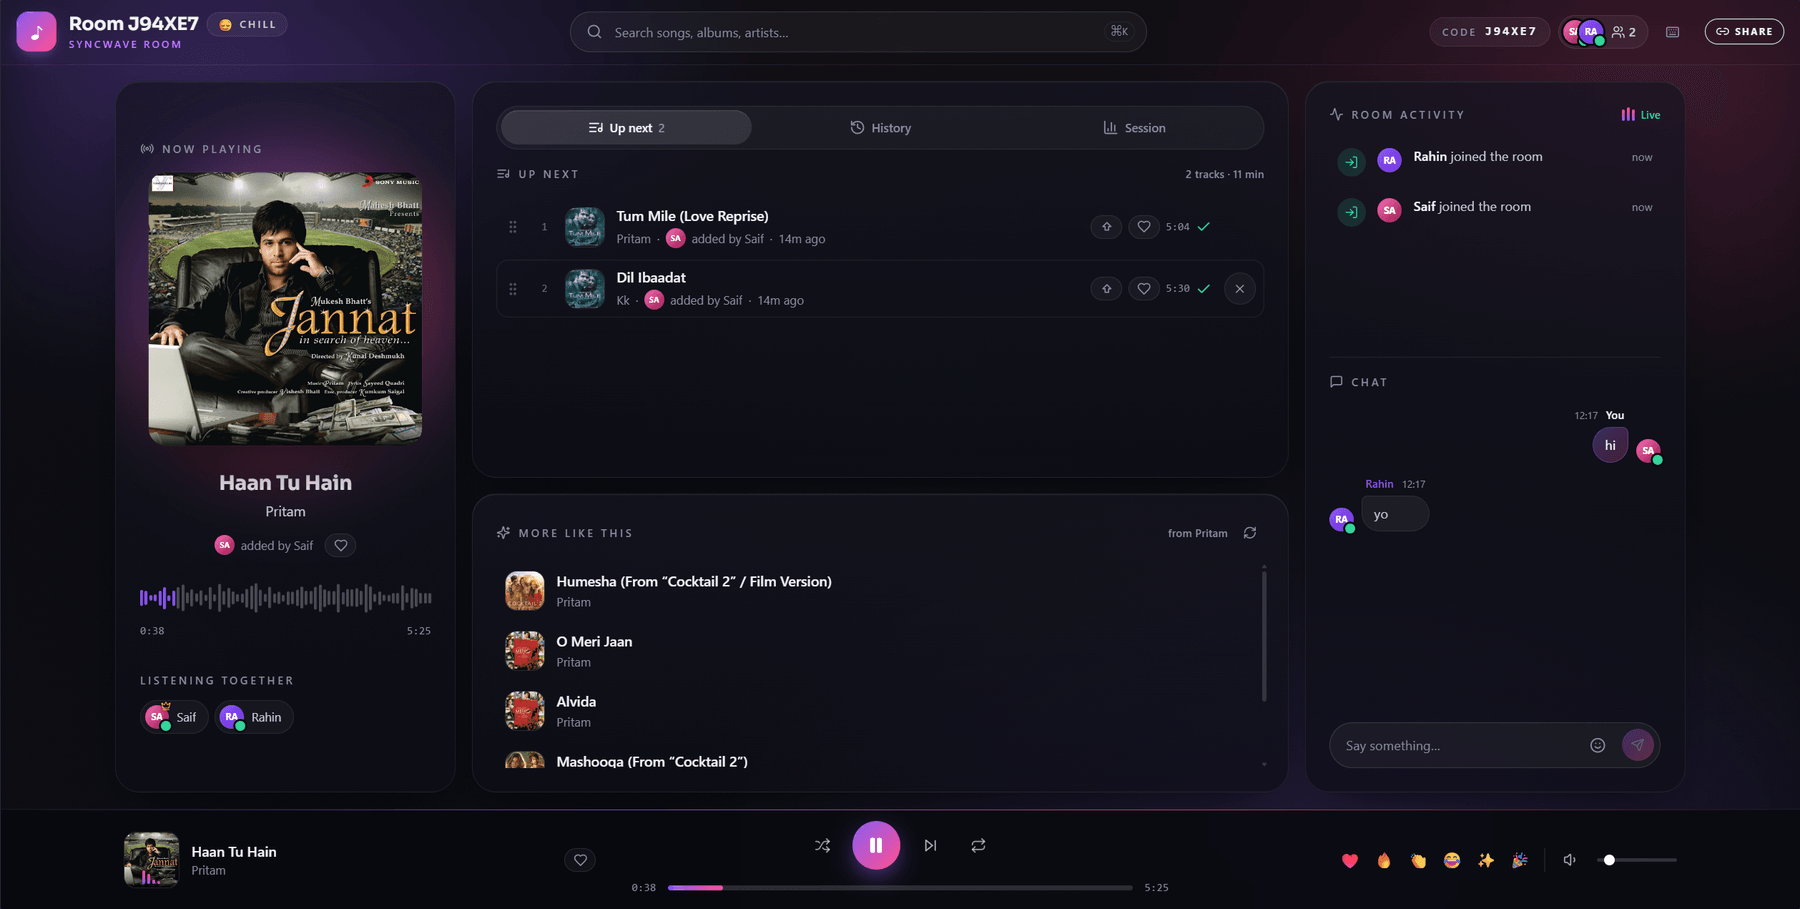
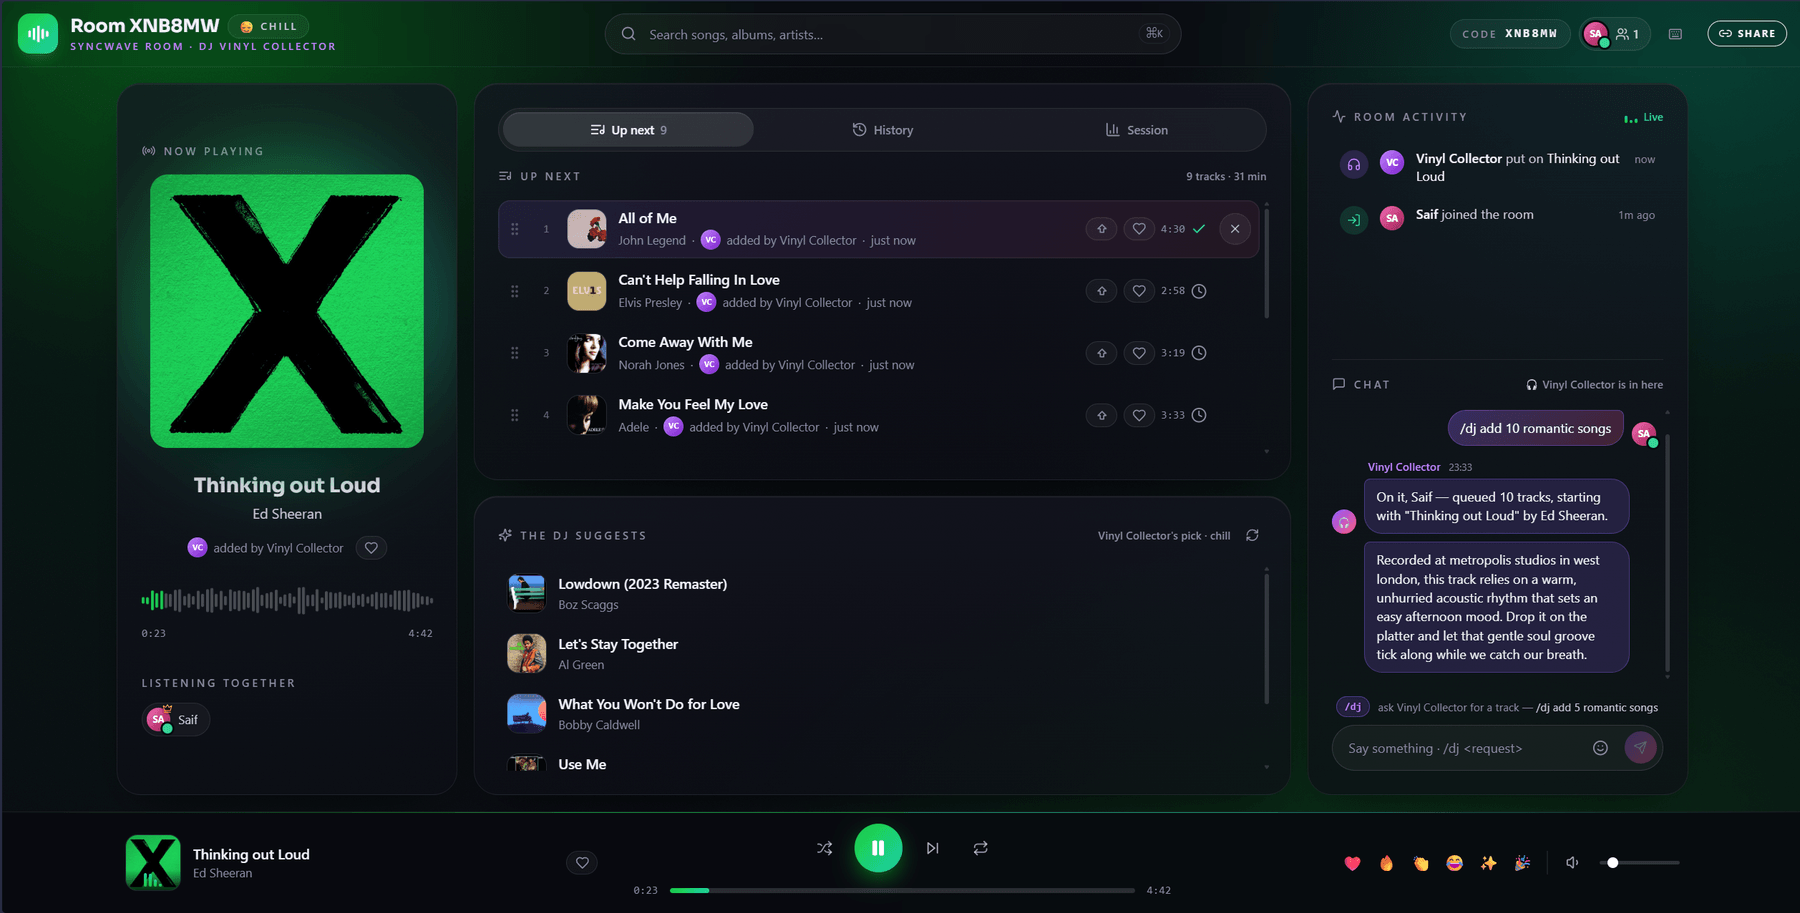
Show the DJ in the screenshot, since it is the thing worth showing
The hero shot was a room with a queue in it. True, and it could be any of a
dozen projects. The new one is a room mid-conversation: someone has typed
"/dj add 10 romantic songs", the DJ has queued ten and said which it started
with, and it is part-way through introducing Thinking Out Loud. Every track in
the queue is credited to Vinyl Collector, the recommendations panel says whose
taste it is, and the whole interface has gone green because that is the colour
of the record that happens to be playing.

That last part is the argument for using this frame everywhere: the artwork
theming is invisible in a still unless the still is not purple, and every shot
until now has been purple.

Same three sizes as before — 421 kB of quantised PNG for the README, 101 kB of
WebP for the landing page, a 1200x630 crop for the share card. Alt text says
what is actually happening rather than listing panels, and the fake browser
chrome carries the room code from the shot instead of the old one.

diff --git a/app/page.tsx b/app/page.tsx
@@ -148,7 +148,7 @@ export default function Home() {
                 <span className="size-2.5 rounded-full bg-white/15" aria-hidden />
                 <span className="size-2.5 rounded-full bg-white/15" aria-hidden />
                 <span className="ml-3 truncate rounded-full bg-white/[0.04] px-3 py-1 font-mono text-[10px] text-muted">
-                  /r/J94XE7
+                  /r/XNB8MW
                 </span>
               </div>
               {/* Plain <img>: the file is a fixed asset shipped with the app, so
@@ -159,12 +159,13 @@ export default function Home() {
                 src="/room.webp"
                 width={1600}
                 height={808}
-                alt="A Syncwave room: album art and a waveform in the Now Playing panel, a shared queue with vote and like buttons, recommendations, a live activity feed, chat, and a bottom player with reactions"
+                alt='A Syncwave room tinted green by the album art. A listener has typed "/dj add 10 romantic songs" and the AI DJ has queued ten tracks and introduced the first one. The shared queue shows each track with who added it, beside DJ recommendations, a live activity feed and a bottom player with reactions'
                 className="w-full rounded-md"
               />
             </div>
             <figcaption className="mt-4 text-center text-xs text-muted">
-              The room adopts the dominant colour of whatever is playing.
+              One line of chat, ten tracks queued — and the room takes its colour from whatever
+              is playing.
             </figcaption>
           </figure>
         </section>

diff --git a/README.md b/README.md
@@ -18,7 +18,7 @@ history, and an optional AI DJ. Runs on any computer you already own.
 ![Self-hosted](https://img.shields.io/badge/Self--hosted-Docker-2496ed.svg?logo=docker&logoColor=white)
 ![PWA](https://img.shields.io/badge/PWA-installable-5a0fc8.svg)
 
-![Syncwave, a self-hosted Spotify Jam alternative: a listening room in a dark purple interface, with a Now Playing hero showing album art and a waveform, a shared queue with vote and like buttons, recommendations, a live activity feed, chat, and a bottom player with reactions](docs/room-live.png)
+![Syncwave, a self-hosted Spotify Jam alternative: a listening room tinted green by the album art, where a listener has typed "/dj add 10 romantic songs" and the AI DJ has queued ten tracks and introduced the first one. The shared queue shows each track with who added it, alongside DJ recommendations, a live activity feed and a bottom player with reactions](docs/room-live.png)
 
 </div>
 
